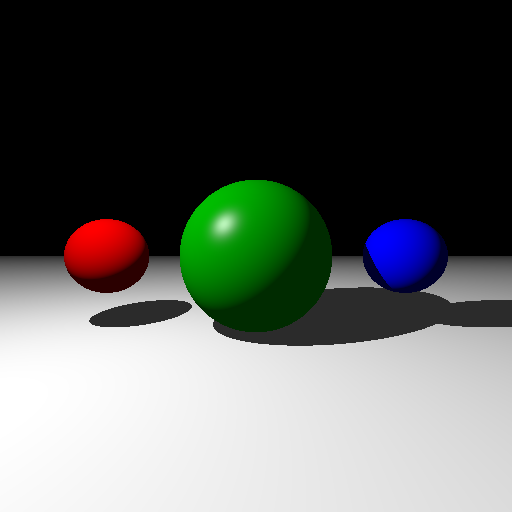
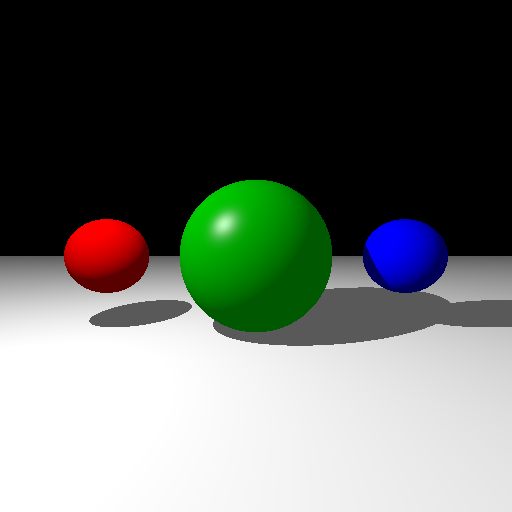
AMBIENT UPDATE

Changed region(s): [[0.125, 0.375, 1.0, 0.6875], [0.0, 0.5, 0.125, 0.5312]]

diff --git a/2024_cg/lab1_shading.py b/2024_cg/lab1_shading.py
@@ -6,7 +6,7 @@ image_width, image_height = 512, 512
 camera_position = np.array([0, 0, 0])
 viewing_plane_distance = 0.1
 l, r, b, t = -0.1, 0.1, -0.1, 0.1
-ambient_intensity = np.array([0.1, 0.1, 0.1])
+ambient_intensity = np.array([0.5, 0.5, 0.5])
 gamma = 2.2
 light_position = np.array([-4, 4, -3])
 light_intensity = np.array([1, 1, 1])
